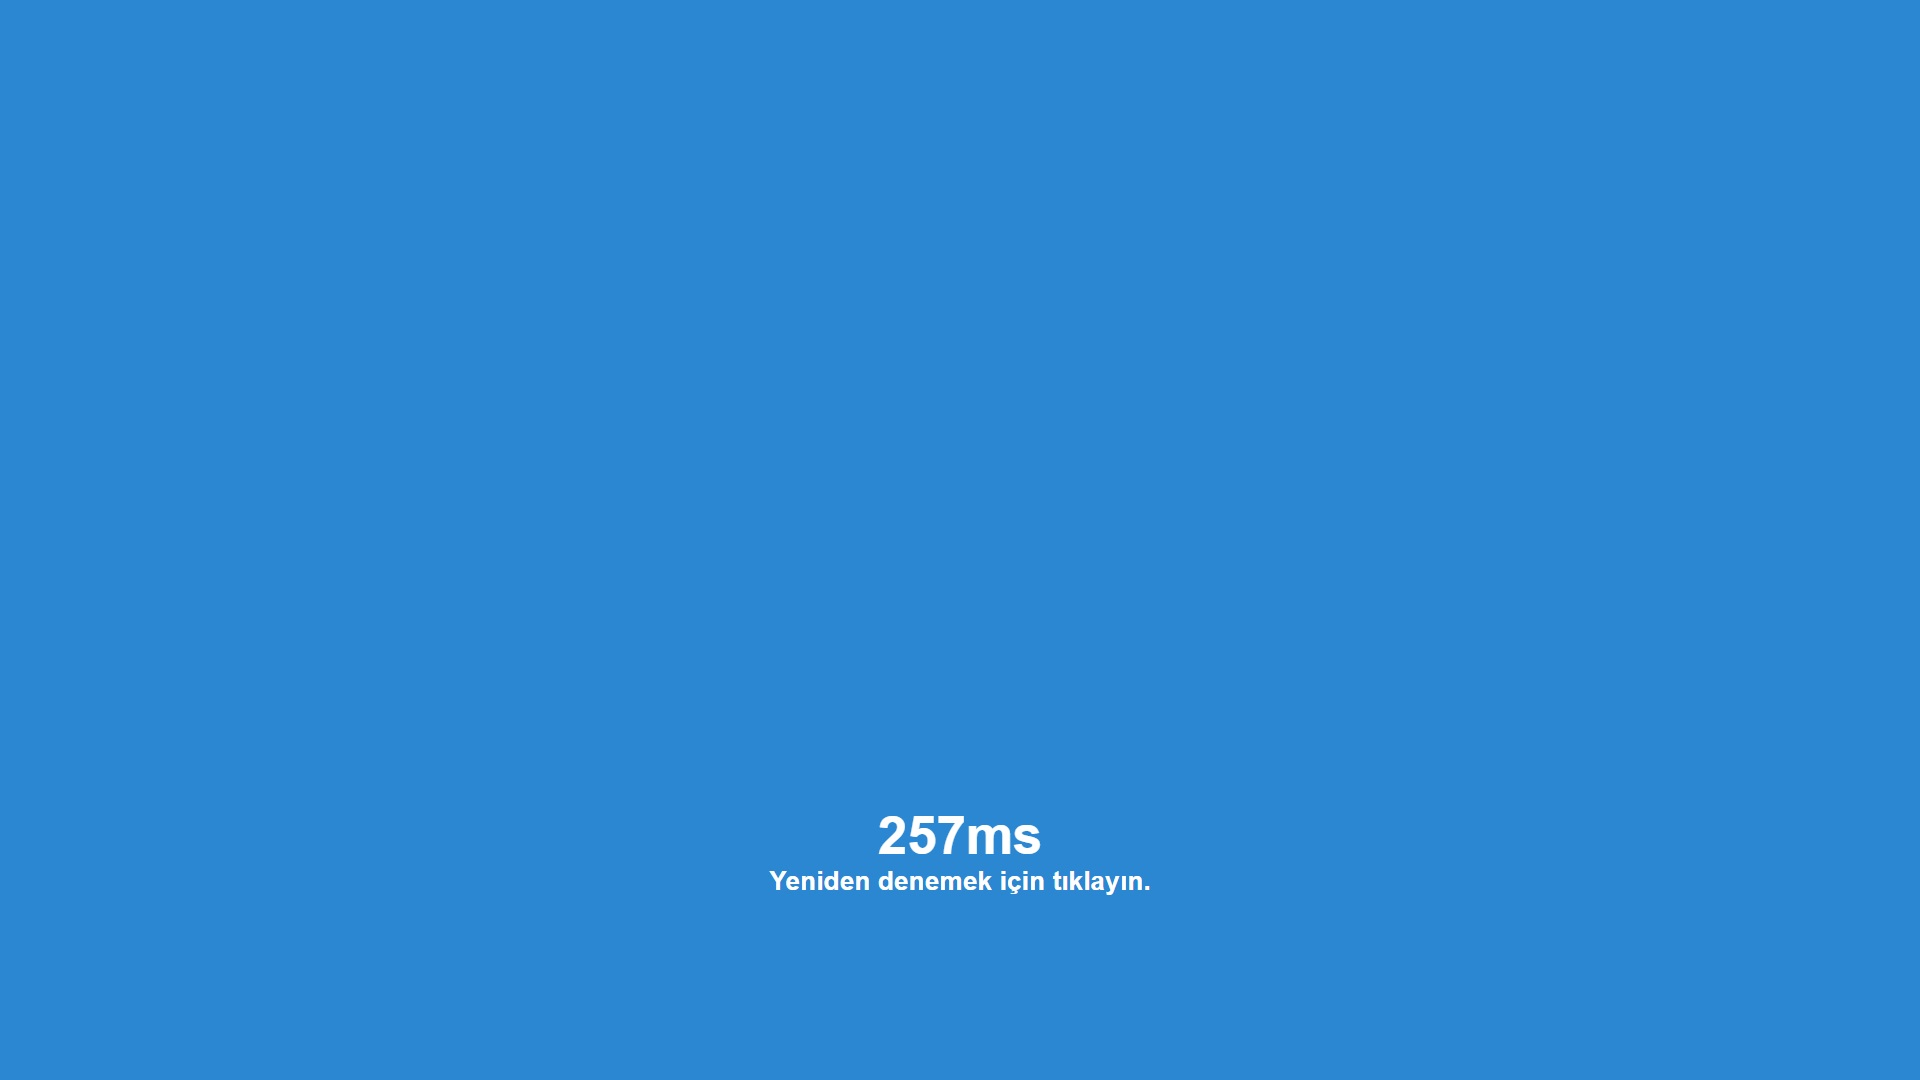
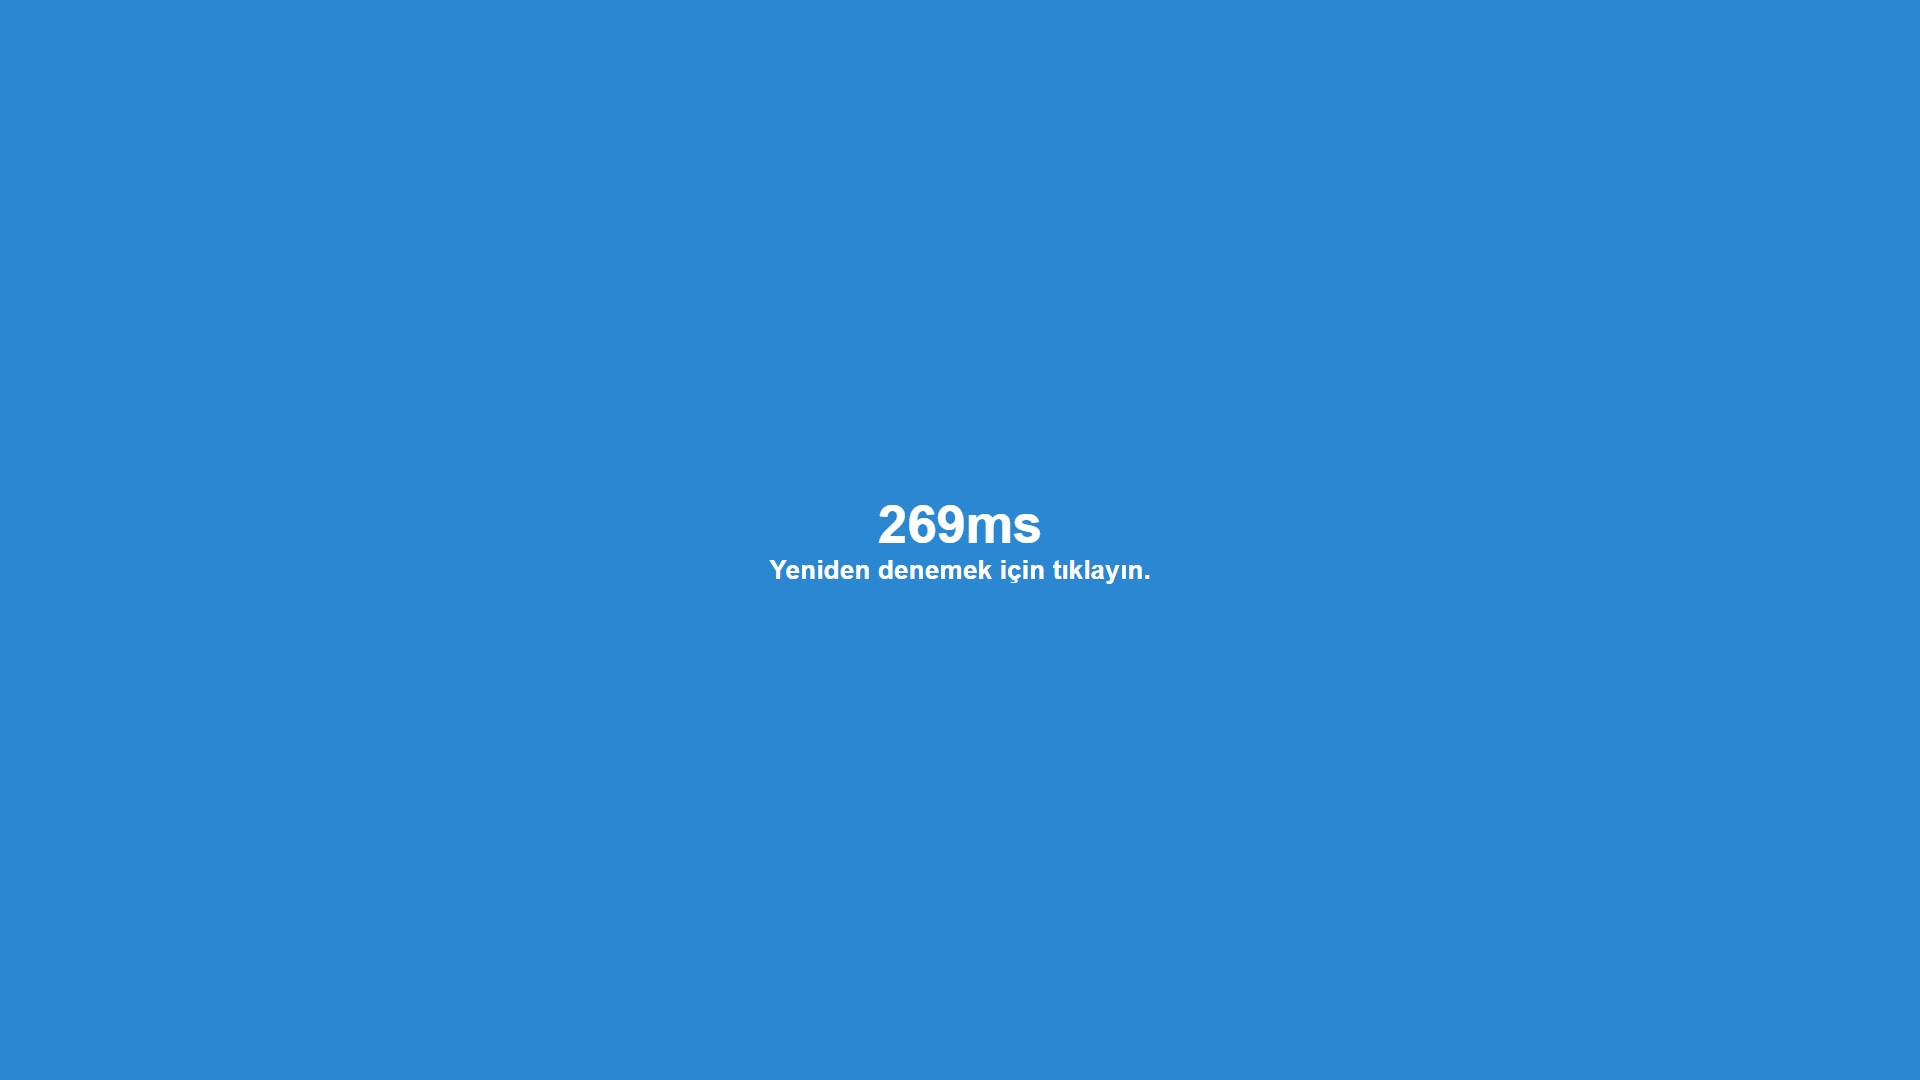
Correction

Changed region(s): [[0.4062, 0.4583, 0.5938, 0.55], [0.4062, 0.7333, 0.5938, 0.825]]

diff --git a/assets/js/script.js b/assets/js/script.js
@@ -25,7 +25,7 @@ container.addEventListener("click", () => {
         container.innerHTML = "<h1>Yeşili bekleyin</h1>";
 
         time = 0;
-        timeout = (Math.random() * 3000) + 100000;
+        timeout = (Math.random() * 3000);
 
         startTimeout = setTimeout(() => {
             screenRed = !screenRed;
